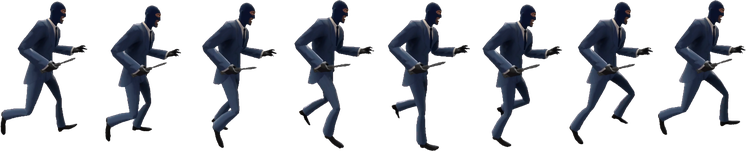
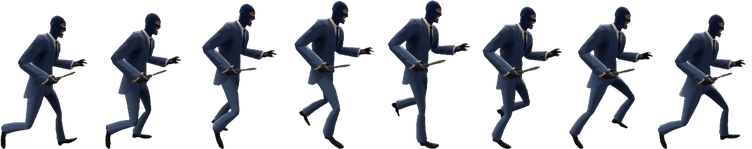
New sprites checked by rendering: walks grounded frame by frame, each animation on its own ground line; rockets Wall-nut-sized, level, named Rocket / Crit Rocket / Big Rocket in TF2 bowling

diff --git a/tools/zombie-art/pack_coop_assets.py b/tools/zombie-art/pack_coop_assets.py
@@ -51,9 +51,9 @@ GROUPS = {
     # About the Heavy Weapons Guy's size (143 px drawn 1.2x).
     'spy':     ('spy',     {'walk': 'loopwalk', 'attack': 'attack', 'idle': 'still_idle', 'uncloak': 'uncloak'}, 172),
     'soldier': ('soldier', {'walk': 'walk', 'attack': 'attack', 'idle': 'idle_stand'}, 172),
-    # Adventure Plus bowling's rockets, in place of the Wall-nuts: a
-    # rocket's thickness, about a Wall-nut's length.
-    'rocket':  ('rocket',  {'normal': 'rocket_normal', 'crit': 'crit_rocket_loop'}, 30),
+    # Adventure Plus bowling's rockets, in place of the Wall-nuts: about a
+    # Wall-nut's size (the plain one some 82 px long).
+    'rocket':  ('rocket',  {'normal': 'rocket_normal', 'crit': 'crit_rocket_loop'}, 25),
 }
 
 # name: (file, height in pixels to store at)
@@ -105,9 +105,19 @@ def clean(im):
     return Image.merge('RGBA', (r, g, b, a))
 
 
-def pack_sheet(name, folder, scale, anchor):
+def pack_sheet(name, folder, scale, anchor, ground_each_frame=False):
     files = frames_of(folder)
     frames = [clean(Image.open(f).convert('RGBA')) for f in files]
+    if ground_each_frame:
+        # Every frame's lowest point moved down onto the ground line, for a
+        # walk exported with the whole figure bobbing: the feet stay planted.
+        grounded = []
+        for f in frames:
+            b = f.split()[3].getbbox()
+            g = Image.new('RGBA', f.size, (0, 0, 0, 0))
+            g.paste(f, (0, (anchor[1] - b[3]) if b else 0))
+            grounded.append(g)
+        frames = grounded
     boxes = [f.split()[3].getbbox() for f in frames]
     boxes = [b for b in boxes if b]
     x0, y0 = min(b[0] for b in boxes), min(b[1] for b in boxes)
@@ -176,9 +186,18 @@ def main():
         x0, y0 = min(b[0] for b in boxes), min(b[1] for b in boxes)
         x1, y1 = max(b[2] for b in boxes), max(b[3] for b in boxes)
         scale = height / float(y1 - y0)
-        anchor = ((x0 + x1) // 2, y1)
         for a in present:
-            m = pack_sheet('%s_%s' % (group, a), os.path.join(folder, anims[a]), scale, anchor)
+            # One size and one middle for all of a character's animations
+            # (so switching between them does not jump sideways), but each
+            # stands on its own lowest point: a run held off the ground in
+            # every frame would otherwise float above the lawn.
+            bottom = 0
+            for f in frames_of(os.path.join(folder, anims[a])):
+                b = clean(Image.open(f).convert('RGBA')).split()[3].getbbox()
+                if b:
+                    bottom = max(bottom, b[3])
+            anchor = ((x0 + x1) // 2, bottom)
+            m = pack_sheet('%s_%s' % (group, a), os.path.join(folder, anims[a]), scale, anchor, ground_each_frame=(a == 'walk'))
             sheets.append(m)
             files.append((m['name'], m['file']))
     for name, (file, height) in SINGLES.items():

diff --git a/src/Lawn/Plant.cpp b/src/Lawn/Plant.cpp
@@ -4256,13 +4256,15 @@ bool Plant::DrawPlusRocket(Graphics* g, SeedType theSeedType, float theX, float 
 	if (CoopArt::SheetFrames(aSheet) <= 0)
 		return false;
 	const float aScale = theScale * (theSeedType == SeedType::SEED_GIANT_WALLNUT ? 2.0f : 1.0f);
-	const float aTurn = theState == PlantState::STATE_BOWLING_UP ? -0.45f : theState == PlantState::STATE_BOWLING_DOWN ? 0.45f : 0.0f;
+	// Rockets glide level, whichever way they bounce: no tilting, no rolling.
+	const float aTurn = 0.0f;
+	(void)theState;
 	Graphics aG(*g);
 	aG.SetColorizeImages(true);
 	aG.SetColor(Color::White);
 	// The packed ground point is the rocket's bottom middle: drop it by half
 	// its height so it is centred in the plant's square.
-	CoopArt::DrawSheetFrame(&aG, aSheet, static_cast<int>(theCounter / 4), theX + 40.0f * theScale, theY + 40.0f * theScale + 15.0f * aScale,
+	CoopArt::DrawSheetFrame(&aG, aSheet, static_cast<int>(theCounter / 4), theX + 40.0f * theScale, theY + 40.0f * theScale + 12.0f * aScale,
 		aScale, false, aTurn);
 	return true;
 }
@@ -5372,8 +5374,24 @@ int Plant::GetCost(SeedType theSeedType, SeedType theImitaterType)
 	}
 }
 
+// TF2 bowling (Adventure Plus 5) calls its Wall-nuts rockets.
+static const char* PlusRocketKey(SeedType theSeedType)
+{
+	if (gLawnApp == nullptr || !gLawnApp->IsAdventurePlusLevel() || !gLawnApp->IsWallnutBowlingLevel())
+		return nullptr;
+	switch (theSeedType)
+	{
+	case SeedType::SEED_WALLNUT:        return "TF2_ROCKET";
+	case SeedType::SEED_EXPLODE_O_NUT:  return "TF2_CRIT_ROCKET";
+	case SeedType::SEED_GIANT_WALLNUT:  return "TF2_BIG_ROCKET";
+	default:                            return nullptr;
+	}
+}
+
 std::string Plant::GetNameString(SeedType theSeedType, SeedType theImitaterType)
 {
+	if (const char* aRocket = PlusRocketKey(theSeedType))
+		return std::string(PvzpStringTranslate(std::format("[{}]", aRocket)));
 	const PlantDefinition& aPlantDef = GetPlantDefinition(theSeedType);
 	std::string aName = std::format("[{}]", aPlantDef.mPlantName);
 	std::string aTranslatedName(PvzpStringTranslate(aName));
@@ -5391,6 +5409,8 @@ std::string Plant::GetNameString(SeedType theSeedType, SeedType theImitaterType)
 
 std::string Plant::GetToolTip(SeedType theSeedType)
 {
+	if (const char* aRocket = PlusRocketKey(theSeedType))
+		return std::string(PvzpStringTranslate(std::format("[{}_TOOLTIP]", aRocket)));
 	const PlantDefinition& aPlantDef = GetPlantDefinition(theSeedType);
 	std::string aToolTip = std::format("[{}_TOOLTIP]", aPlantDef.mPlantName);
 	return std::string(PvzpStringTranslate(aToolTip));

diff --git a/src/LawnApp.cpp b/src/LawnApp.cpp
@@ -2758,6 +2758,12 @@ void LawnApp::LoadingThreadProc()
 		"GRAZ burps green fumes that go straight through every zombie in front of him.{SHORTLINE}"
 		"{KEYWORD}Damage:{STAT} normal, to everything in reach{BR}{KEYWORD}Range:{STAT} four tiles{SHORTLINE}"
 		"Unlike a Fume-shroom, he never sleeps. That's because he drinks WAY too much monster energy.");
+	mStringProperties.insert_or_assign("TF2_ROCKET", "Rocket");
+	mStringProperties.insert_or_assign("TF2_ROCKET_TOOLTIP", "Flies down the lane, bouncing off what it hits");
+	mStringProperties.insert_or_assign("TF2_CRIT_ROCKET", "Crit Rocket");
+	mStringProperties.insert_or_assign("TF2_CRIT_ROCKET_TOOLTIP", "Explodes on the first zombie it hits");
+	mStringProperties.insert_or_assign("TF2_BIG_ROCKET", "Big Rocket");
+	mStringProperties.insert_or_assign("TF2_BIG_ROCKET_TOOLTIP", "Flattens everything in its lane");
 	mStringProperties.insert_or_assign("SENTRY", "Sentry Turret");
 	mStringProperties.insert_or_assign("SENTRY_TOOLTIP", "Shoots homing spikes at the nearest zombie, anywhere");
 	mStringProperties.insert_or_assign("SENTRY_DESCRIPTION",

diff --git a/src/Lawn/CoopPackedData.cpp b/src/Lawn/CoopPackedData.cpp
@@ -150,13 +150,13 @@ const CoopSheetMeta gCoopSheetMetas[] = {
 	{ "heavy", 90, 143, 28, 28, 0.2800f, 81, 0, 241, 510 },
 	{ "sentry_idle", 63, 80, 1, 1, 0.1802f, 76, 54, 280, 498 },
 	{ "sentry_fire", 74, 80, 4, 4, 0.1802f, 76, 54, 280, 498 },
-	{ "spy_walk", 94, 151, 8, 8, 0.3598f, 136, 55, 284, 483 },
+	{ "spy_walk", 94, 149, 8, 8, 0.3598f, 136, 60, 284, 474 },
 	{ "spy_attack", 99, 172, 11, 11, 0.3598f, 157, 5, 284, 483 },
 	{ "spy_idle", 80, 150, 17, 17, 0.3598f, 147, 65, 284, 483 },
-	{ "soldier_walk", 86, 171, 9, 9, 0.3525f, 179, 5, 233, 493 },
+	{ "soldier_walk", 86, 166, 9, 9, 0.3525f, 179, 20, 233, 490 },
 	{ "soldier_attack", 130, 170, 10, 10, 0.3525f, 43, 11, 233, 493 },
 	{ "soldier_idle", 79, 171, 21, 21, 0.3525f, 193, 9, 233, 493 },
-	{ "rocket_normal", 98, 17, 1, 1, 0.2239f, 38, 206, 246, 310 },
-	{ "rocket_crit", 103, 30, 20, 20, 0.2239f, 15, 176, 246, 310 },
+	{ "rocket_normal", 82, 14, 1, 1, 0.1866f, 38, 206, 246, 282 },
+	{ "rocket_crit", 86, 25, 20, 20, 0.1866f, 15, 176, 246, 310 },
 	{ nullptr, 0, 0, 0, 0, 0.0f, 0, 0, 0, 0 },
 };
